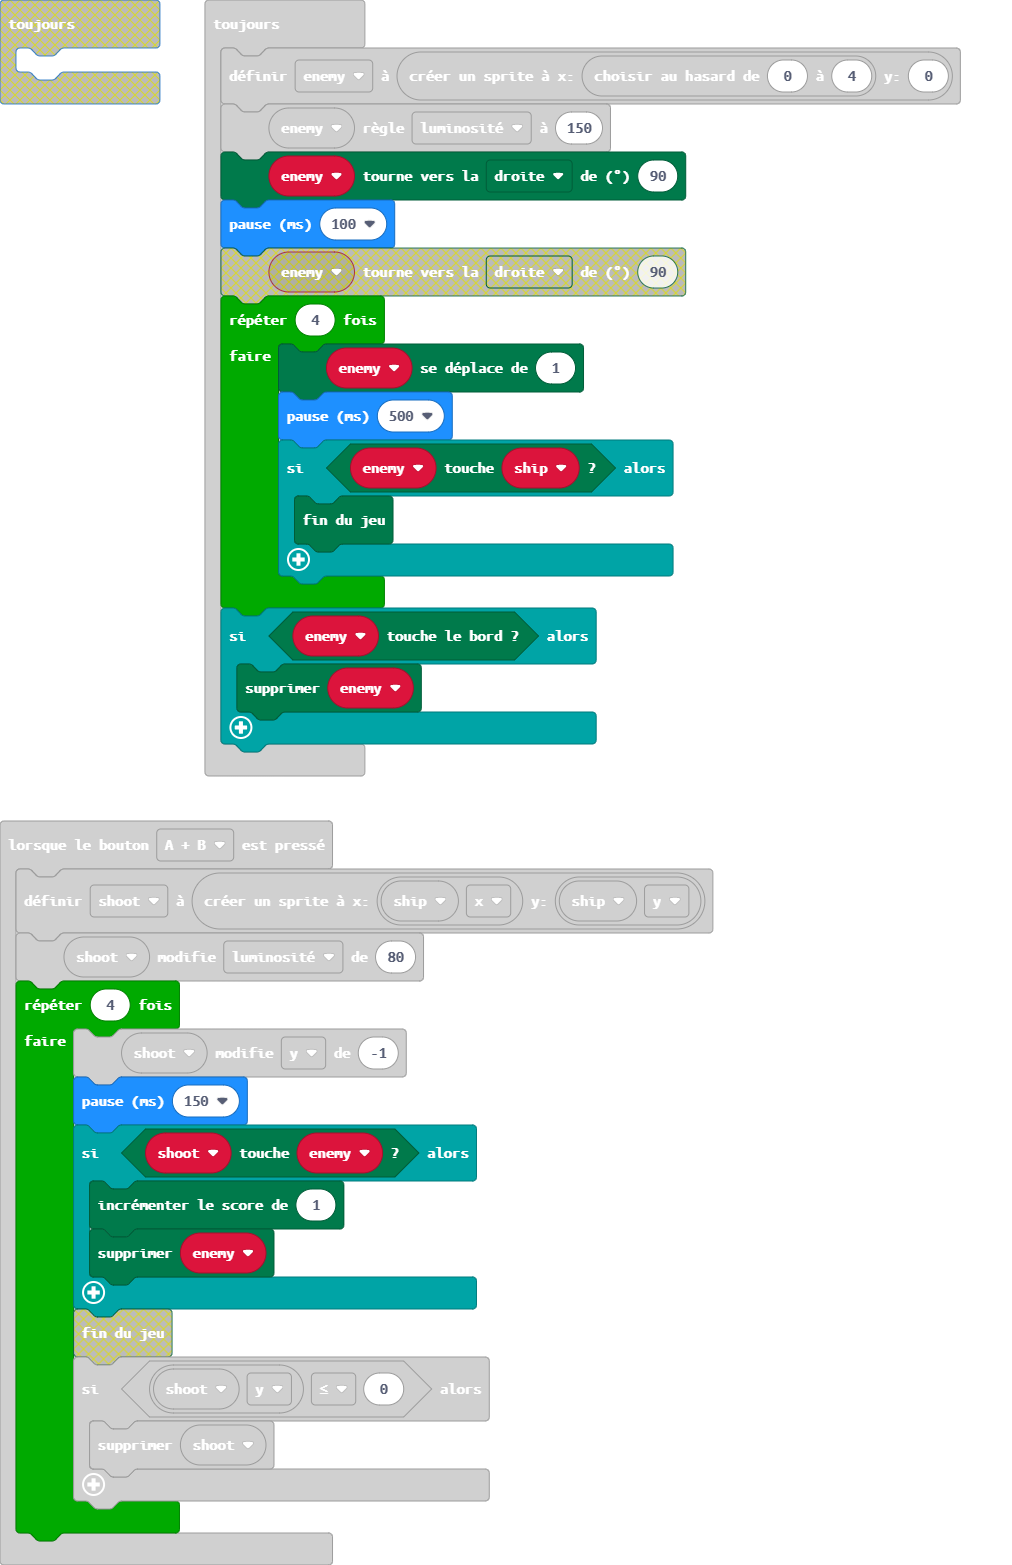
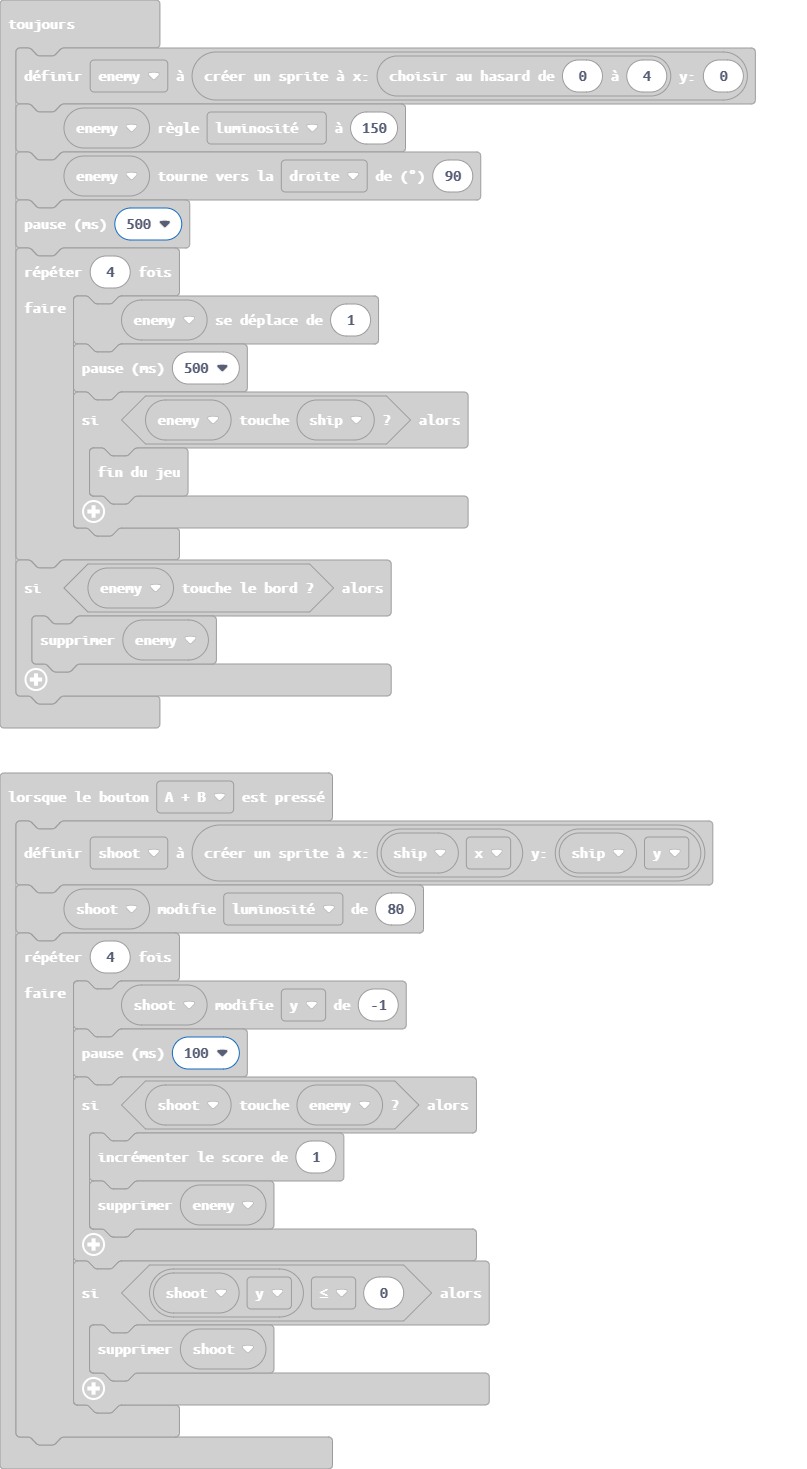
Mise à jour main.blocks, main.ts

diff --git a/main.ts b/main.ts
@@ -6,7 +6,7 @@ input.onButtonPressed(Button.AB, function () {
     shoot.change(LedSpriteProperty.Brightness, 80)
     for (let index = 0; index < 4; index++) {
         shoot.change(LedSpriteProperty.Y, -1)
-        basic.pause(150)
+        basic.pause(100)
         if (shoot.isTouching(enemy)) {
             game.addScore(1)
             enemy.delete()
@@ -27,7 +27,7 @@ basic.forever(function () {
     enemy = game.createSprite(randint(0, 4), 0)
     enemy.set(LedSpriteProperty.Brightness, 150)
     enemy.turn(Direction.Right, 90)
-    basic.pause(100)
+    basic.pause(500)
     for (let index = 0; index < 4; index++) {
         enemy.move(1)
         basic.pause(500)
